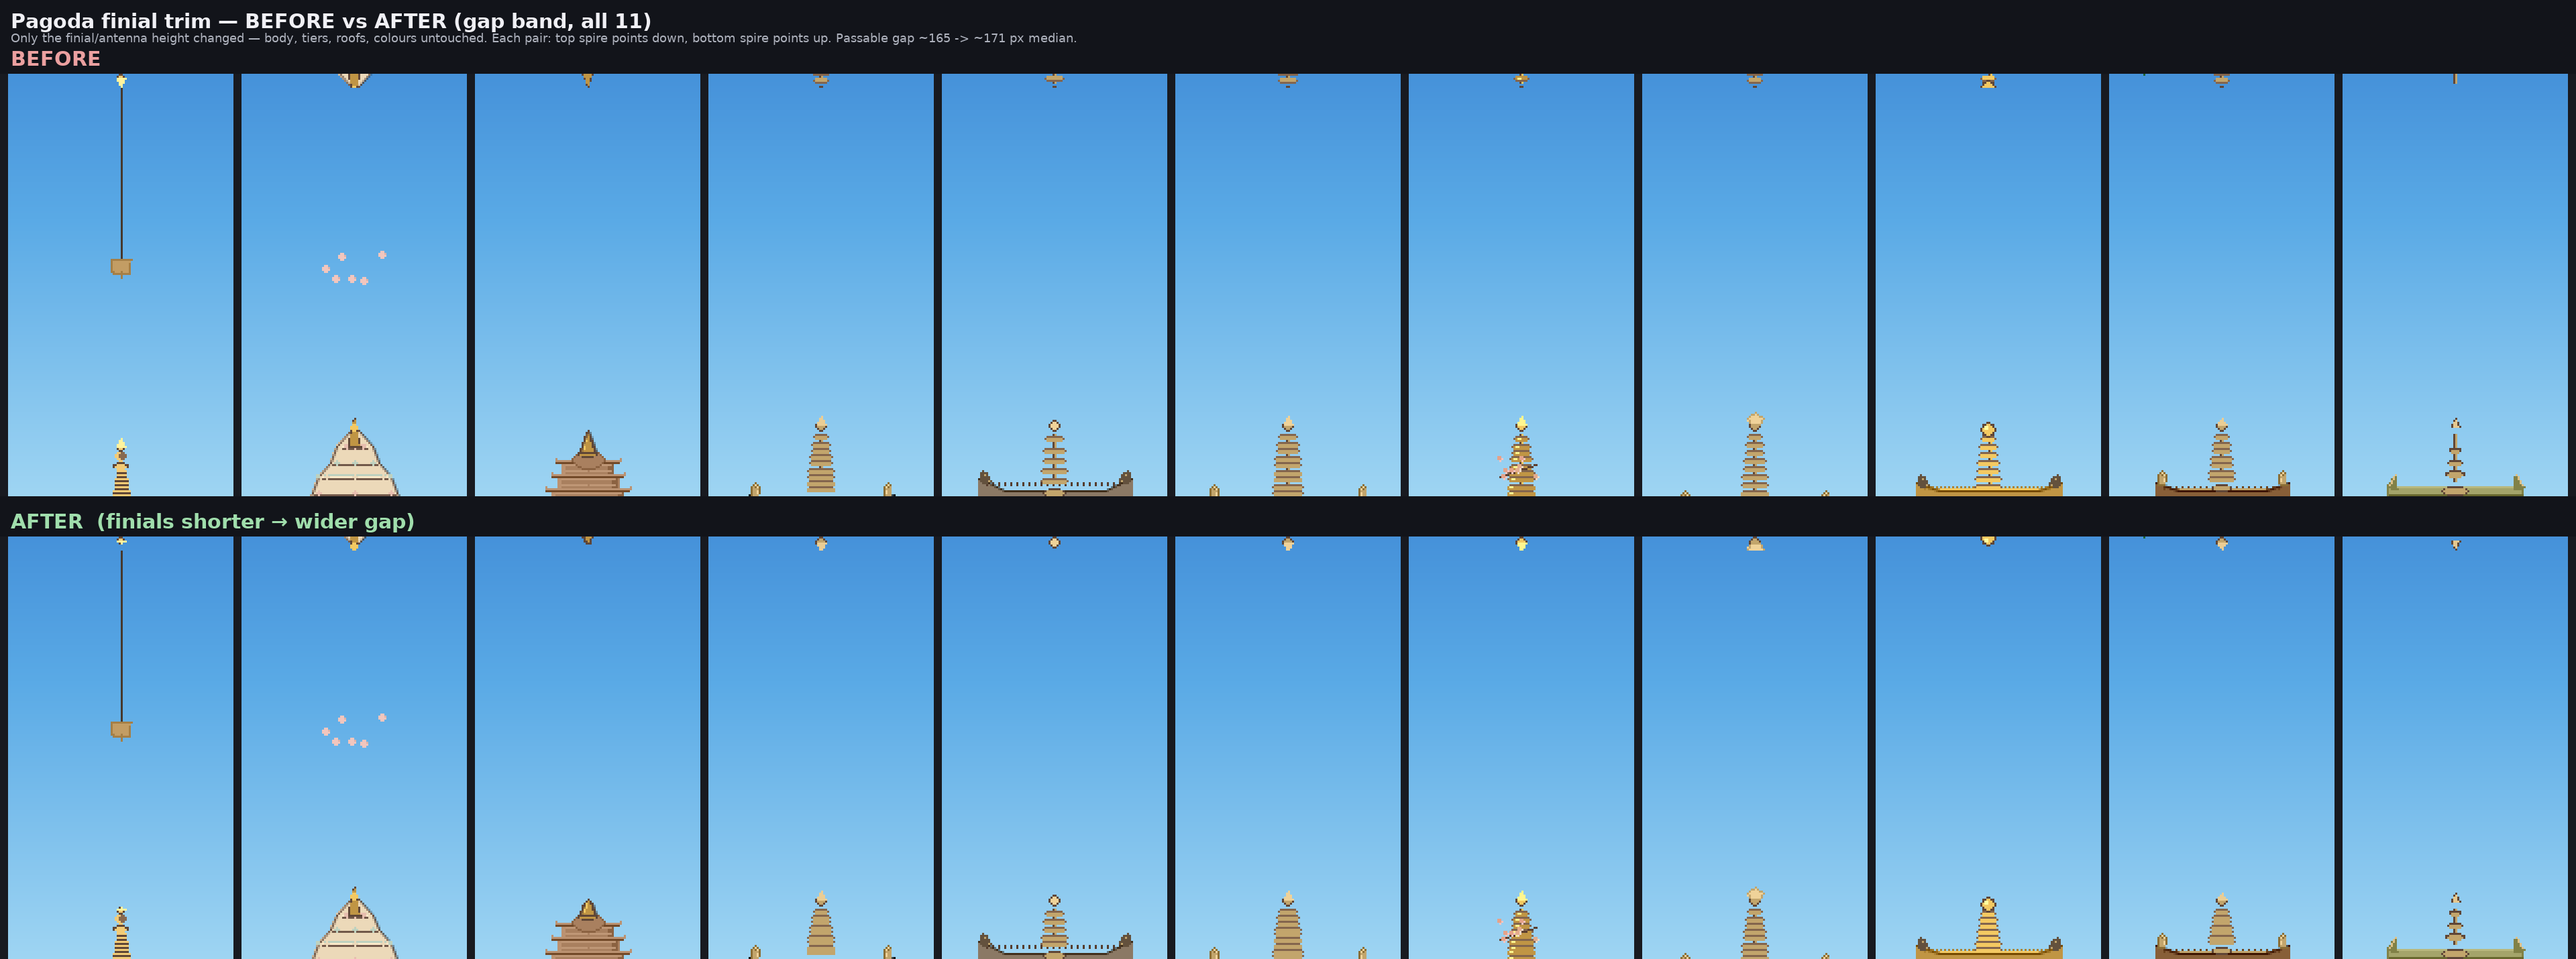
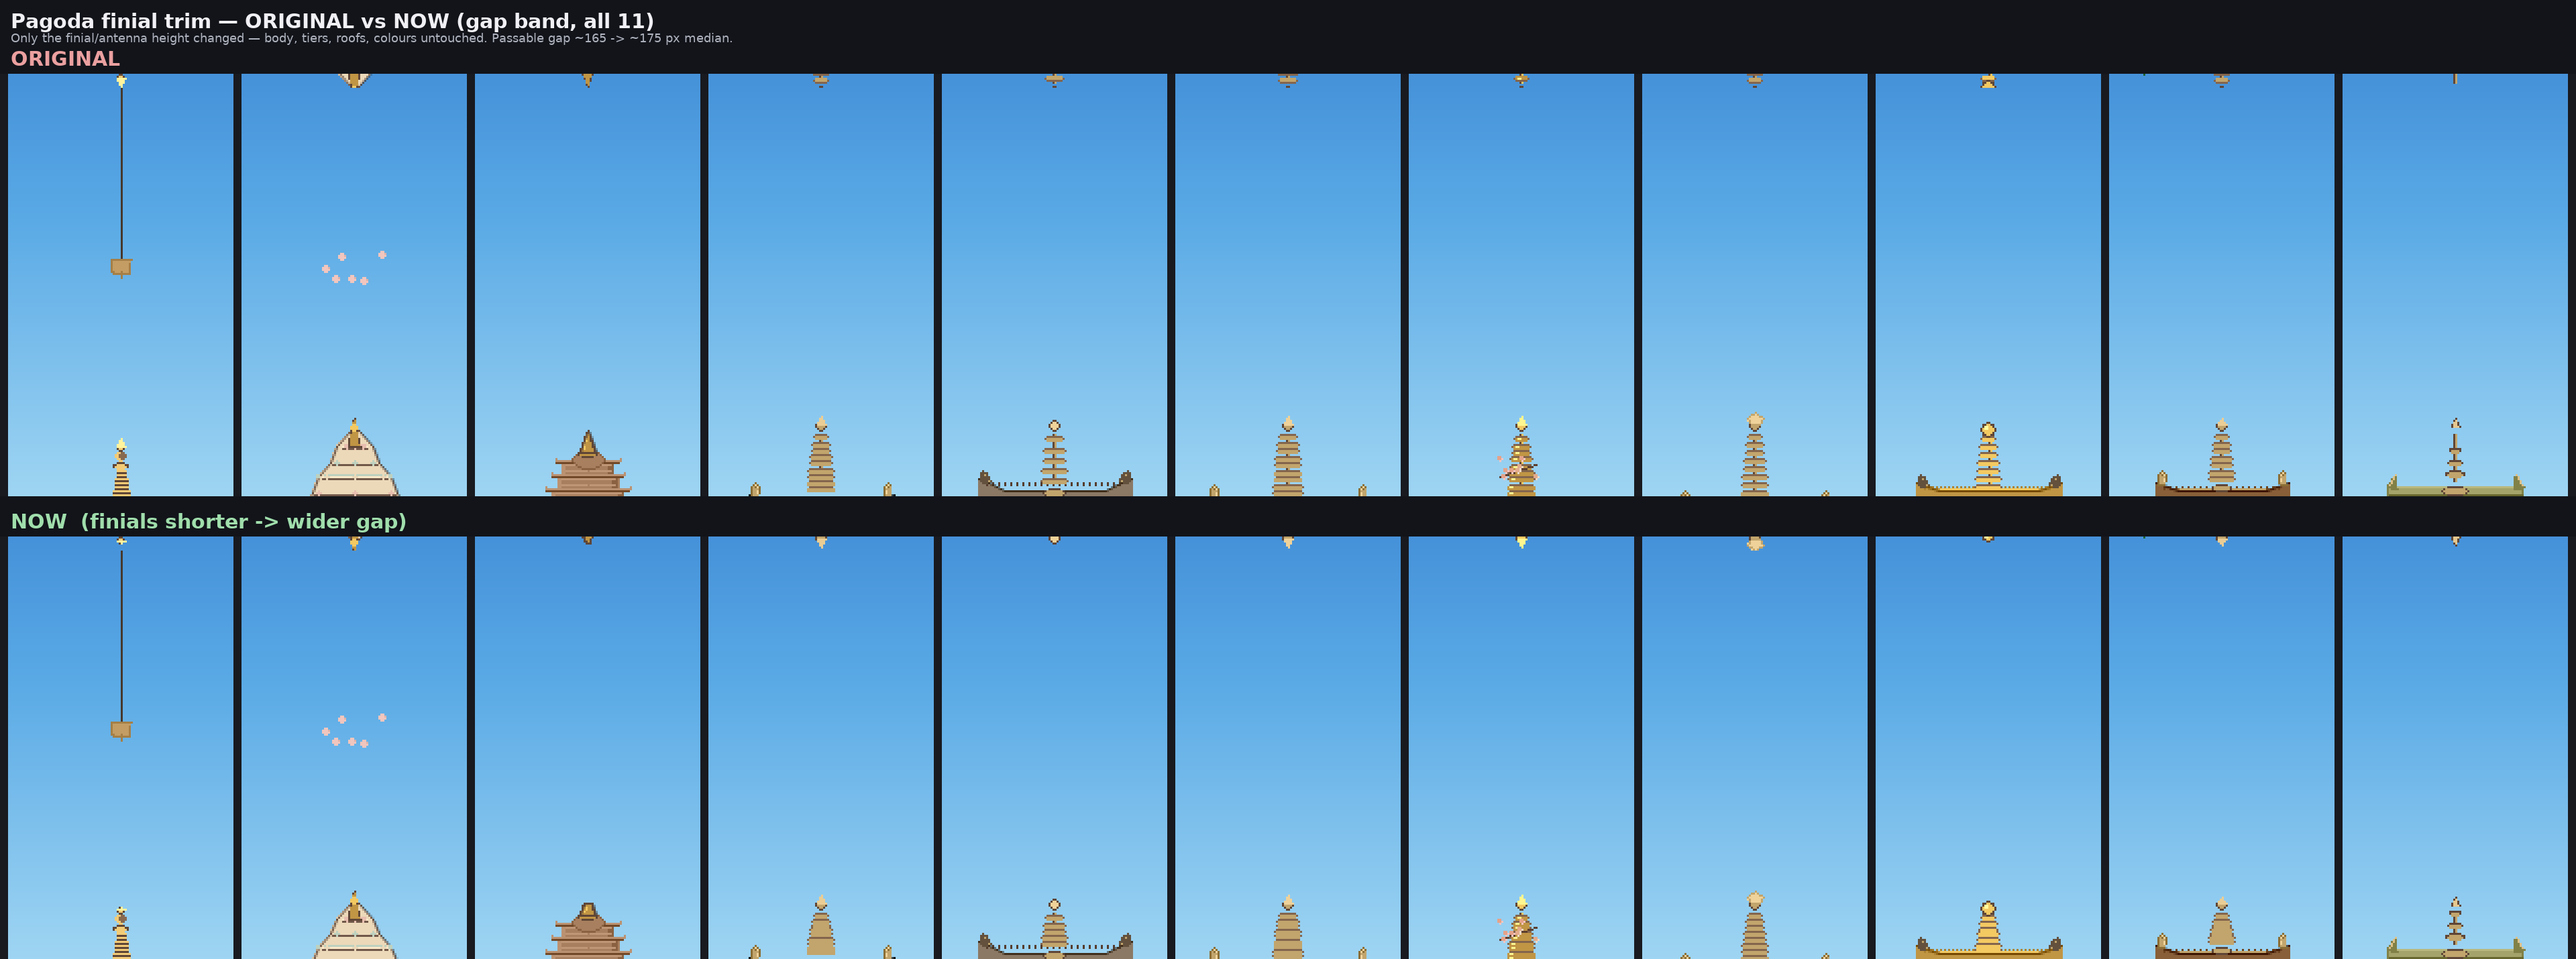
Trim pagoda finials another ~3px (passable gap ~171 -> ~175px median)
Follow-up to the finial trim: shorten the gap-facing spire a little further per request.
Ground sorin trim 6->8px, songyue ground bud 3->5px, wat_arun prang spire 3->5px; stupa
left as-is (already the most open). Body, tiers, roofs, colours still untouched. Effective
gap now 170-180 (median 175), ~+10px vs the original pagoda design.

https://claude.ai/code/session_01AKSWmLi8hNK3VNasXuLMag

diff --git a/game/pillar_pagodas.py b/game/pillar_pagodas.py
@@ -1090,7 +1090,7 @@ def _draw_horyuji_to(surf, cx, top_y, bot_y, base_w, palette, *,
     pygame.draw.ellipse(surf, dark_pal, (cx - 6, base_y + dir_sign * 1, 12, 5))
     pygame.draw.ellipse(surf, accent, (cx - 5, base_y + dir_sign * 1 + 1, 10, 3))
     # Central needle.
-    finial_h -= 6  # trim the gap-facing spire so it clears the gap edge (the ceiling mirror already clips its spire flush)
+    finial_h -= 8  # trim the gap-facing spire so it clears the gap edge (the ceiling mirror already clips its spire flush)
     needle_tip = base_y + dir_sign * (finial_h - 4)
     pygame.draw.line(surf, dark_pal,
                      (cx - 1, base_y + dir_sign * 4),
@@ -1919,7 +1919,7 @@ def _draw_wat_arun_prang(surf, cx, base_y, palette, *,
     gold = _gold_deep(palette)
     # ~40% base tiers, ~60% corncob spire.
     base_h = max(28, int(total_h * 0.40))
-    spire_h = total_h - base_h - 3
+    spire_h = total_h - base_h - 5
 
     # Stepped square base — receding tiers. The opt-in override path
     # fixes per-tier height at the bottom's natural value (KFC bucket
@@ -1928,7 +1928,7 @@ def _draw_wat_arun_prang(surf, cx, base_y, palette, *,
     if tier_h_override is not None:
         tier_h = tier_h_override
         base_h = tier_h * n_tiers
-        spire_h = total_h - base_h - 3
+        spire_h = total_h - base_h - 5
     else:
         tier_h = base_h // n_tiers
     widest = int(body_w * 1.20)
@@ -2186,7 +2186,7 @@ def _draw_songyue(surf, top_rect, bot_rect, palette, seed):
         # Lotus-bud finial — Songyue's iconic crowning ornament. The tip
         # reaches top_y (the gap edge) so the silhouette FILLS the rect.
         bud_base_y = cap_y - 4
-        bud_tip_y = min(bud_base_y - 8, top_y) + 3
+        bud_tip_y = min(bud_base_y - 8, top_y) + 5
         gold = _gold_deep(palette)
         bright = _gold_bright(palette)
         dark = palette['stone_dark']
@@ -2720,7 +2720,7 @@ def _draw_fogong_to(surf, cx, top_y, bot_y, base_w, palette, *,
     bright = _shade(accent, 45)
     pygame.draw.ellipse(surf, dark_pal, (cx - 6, base_y + dir_sign * 1, 12, 5))
     pygame.draw.ellipse(surf, accent, (cx - 5, base_y + dir_sign * 1 + 1, 10, 3))
-    finial_h -= 6  # trim the gap-facing spire so it clears the gap edge (the ceiling mirror already clips its spire flush)
+    finial_h -= 8  # trim the gap-facing spire so it clears the gap edge (the ceiling mirror already clips its spire flush)
     needle_tip = base_y + dir_sign * (finial_h - 4)
     pygame.draw.line(surf, dark_pal,
                      (cx - 1, base_y + dir_sign * 4),
@@ -4243,7 +4243,7 @@ def _draw_toji_to(surf, cx, top_y, bot_y, base_w, palette, *,
     bright = _shade(accent, 45)
     pygame.draw.ellipse(surf, dark_pal, (cx - 7, base_y + dir_sign * 1, 14, 5))
     pygame.draw.ellipse(surf, accent, (cx - 6, base_y + dir_sign * 1 + 1, 12, 3))
-    finial_h -= 6  # trim the gap-facing spire so it clears the gap edge (the ceiling mirror already clips its spire flush)
+    finial_h -= 8  # trim the gap-facing spire so it clears the gap edge (the ceiling mirror already clips its spire flush)
     needle_tip = base_y + dir_sign * (finial_h - 4)
     pygame.draw.line(surf, dark_pal,
                      (cx - 1, base_y + dir_sign * 4),
@@ -4501,7 +4501,7 @@ def _draw_daigoji_to(surf, cx, top_y, bot_y, base_w, palette, *,
     bright = _shade(gold, 45)
     pygame.draw.ellipse(surf, dark_pal, (cx - 7, base_y + dir_sign * 1, 14, 5))
     pygame.draw.ellipse(surf, gold, (cx - 6, base_y + dir_sign * 1 + 1, 12, 3))
-    finial_h -= 6  # trim the gap-facing spire so it clears the gap edge (the ceiling mirror already clips its spire flush)
+    finial_h -= 8  # trim the gap-facing spire so it clears the gap edge (the ceiling mirror already clips its spire flush)
     needle_tip = base_y + dir_sign * (finial_h - 4)
     pygame.draw.line(surf, dark_pal,
                      (cx - 1, base_y + dir_sign * 4),
@@ -4712,7 +4712,7 @@ def _draw_yakushiji_to(surf, cx, top_y, bot_y, base_w, palette, *,
     bright = _shade(accent, 45)
     pygame.draw.ellipse(surf, dark_pal, (cx - 6, base_y + dir_sign * 1, 12, 5))
     pygame.draw.ellipse(surf, accent, (cx - 5, base_y + dir_sign * 1 + 1, 10, 3))
-    finial_h -= 6  # trim the gap-facing spire so it clears the gap edge (the ceiling mirror already clips its spire flush)
+    finial_h -= 8  # trim the gap-facing spire so it clears the gap edge (the ceiling mirror already clips its spire flush)
     needle_tip = base_y + dir_sign * (finial_h - 4)
     pygame.draw.line(surf, dark_pal,
                      (cx - 1, base_y + dir_sign * 4),
@@ -5643,7 +5643,7 @@ def _draw_baoen_stack(surf, cx, top_y, bot_y, base_w, palette, *,
     top_wall_y = tier_tops[-1][0]
     dark_pal = palette['stone_dark']
     bright = _shade(gold, 60)
-    finial_h -= 6  # trim the gap-facing spire so it clears the gap edge (the ceiling mirror already clips its spire flush)
+    finial_h -= 8  # trim the gap-facing spire so it clears the gap edge (the ceiling mirror already clips its spire flush)
     tip_y = top_wall_y - finial_h
     pygame.draw.line(surf, dark_pal, (cx, top_wall_y - 2), (cx, tip_y), 2)
     pygame.draw.line(surf, gold, (cx + 1, top_wall_y - 2), (cx + 1, tip_y), 1)
@@ -9008,7 +9008,7 @@ def _draw_muroji_to(surf, cx, top_y, bot_y, base_w, palette, *,
     bright = _shade(accent, 40)
     pygame.draw.ellipse(surf, dark_pal, (cx - 5, base_y + dir_sign * 1, 10, 4))
     pygame.draw.ellipse(surf, accent, (cx - 4, base_y + dir_sign * 1 + 1, 8, 2))
-    finial_h -= 6  # trim the gap-facing spire so it clears the gap edge (the ceiling mirror already clips its spire flush)
+    finial_h -= 8  # trim the gap-facing spire so it clears the gap edge (the ceiling mirror already clips its spire flush)
     needle_tip = base_y + dir_sign * (finial_h - 4)
     pygame.draw.line(surf, dark_pal,
                      (cx - 1, base_y + dir_sign * 3),
@@ -9660,7 +9660,7 @@ def _draw_palsangjeon_sangnyun(surf, cx, base_y, palette, *,
     pygame.draw.ellipse(surf, brass,
                         (cx - 6, base_y + dir_sign * 2 + 1, 12, 3))
     # Needle.
-    finial_h -= 6  # trim the gap-facing spire so it clears the gap edge (the ceiling mirror already clips its spire flush)
+    finial_h -= 8  # trim the gap-facing spire so it clears the gap edge (the ceiling mirror already clips its spire flush)
     needle_tip = base_y + dir_sign * (finial_h - 4)
     pygame.draw.line(surf, dark,
                      (cx - 1, base_y + dir_sign * 5),
